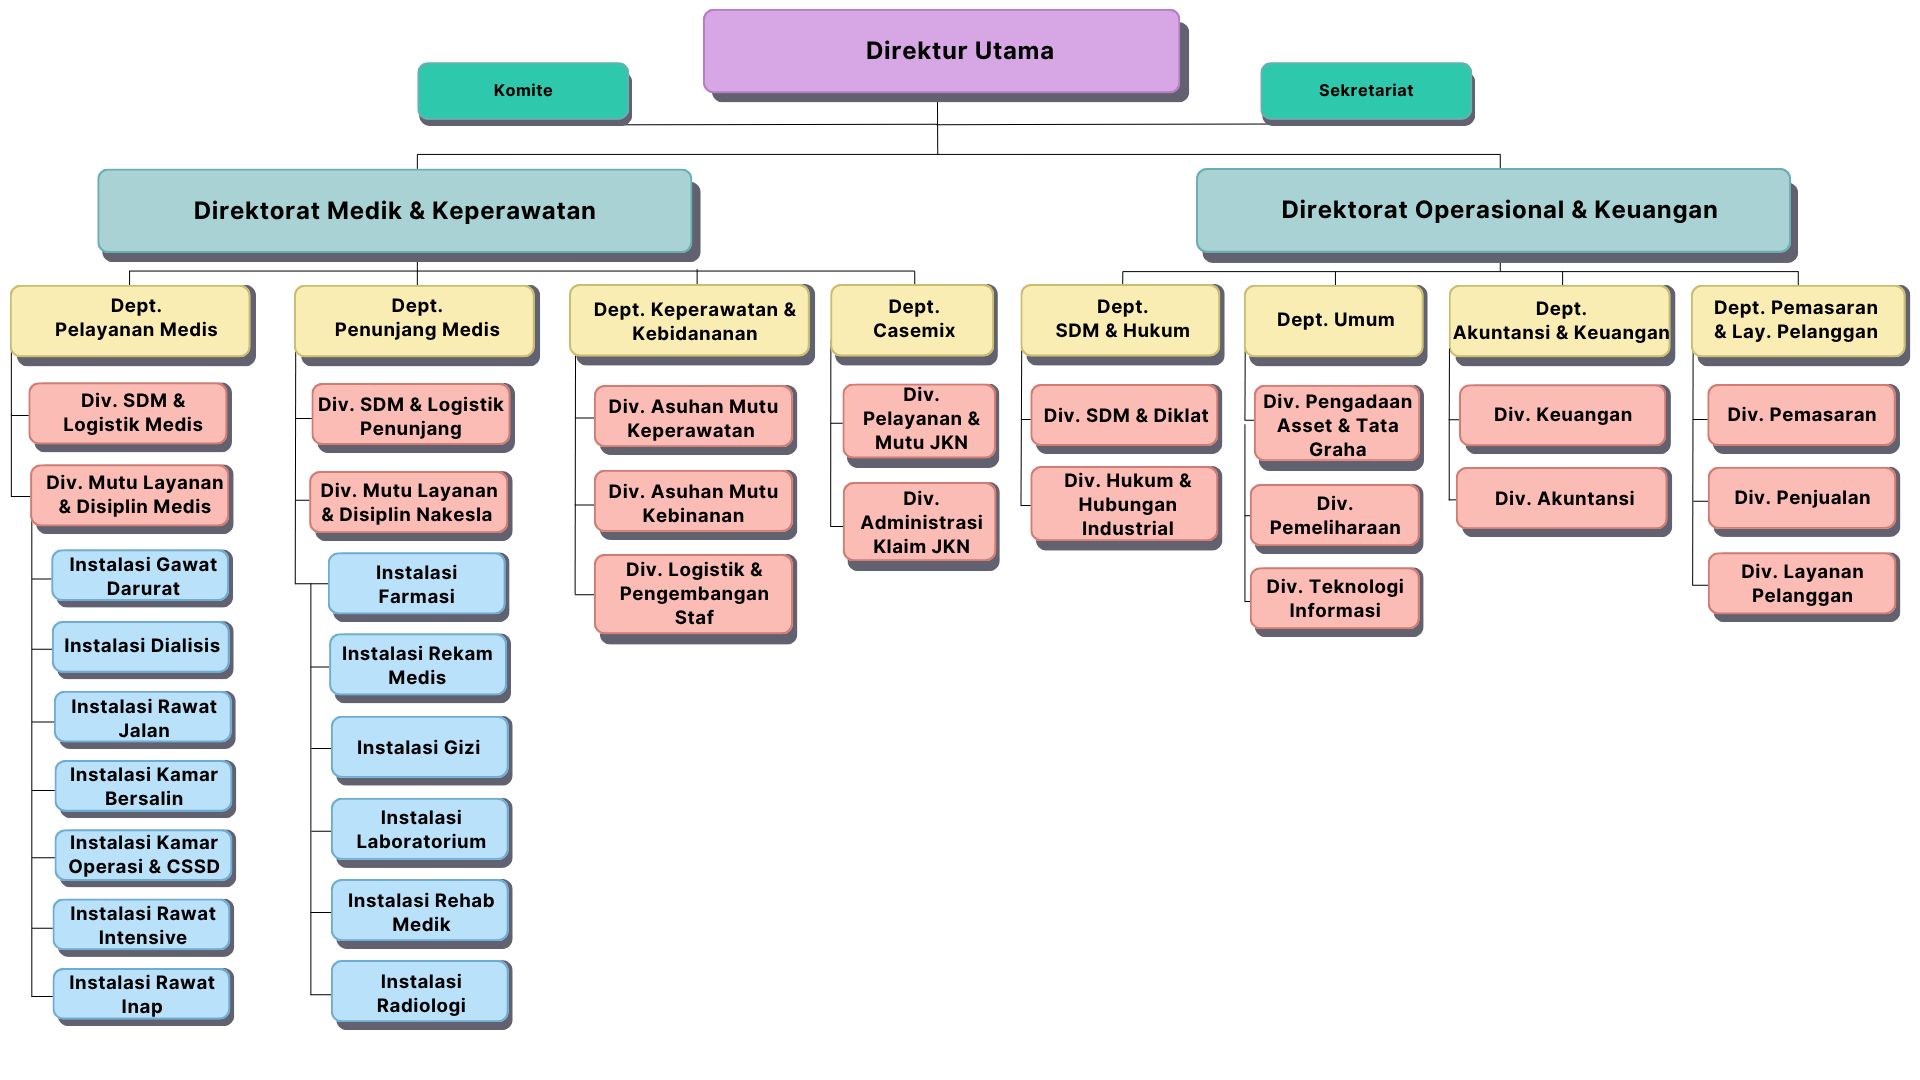
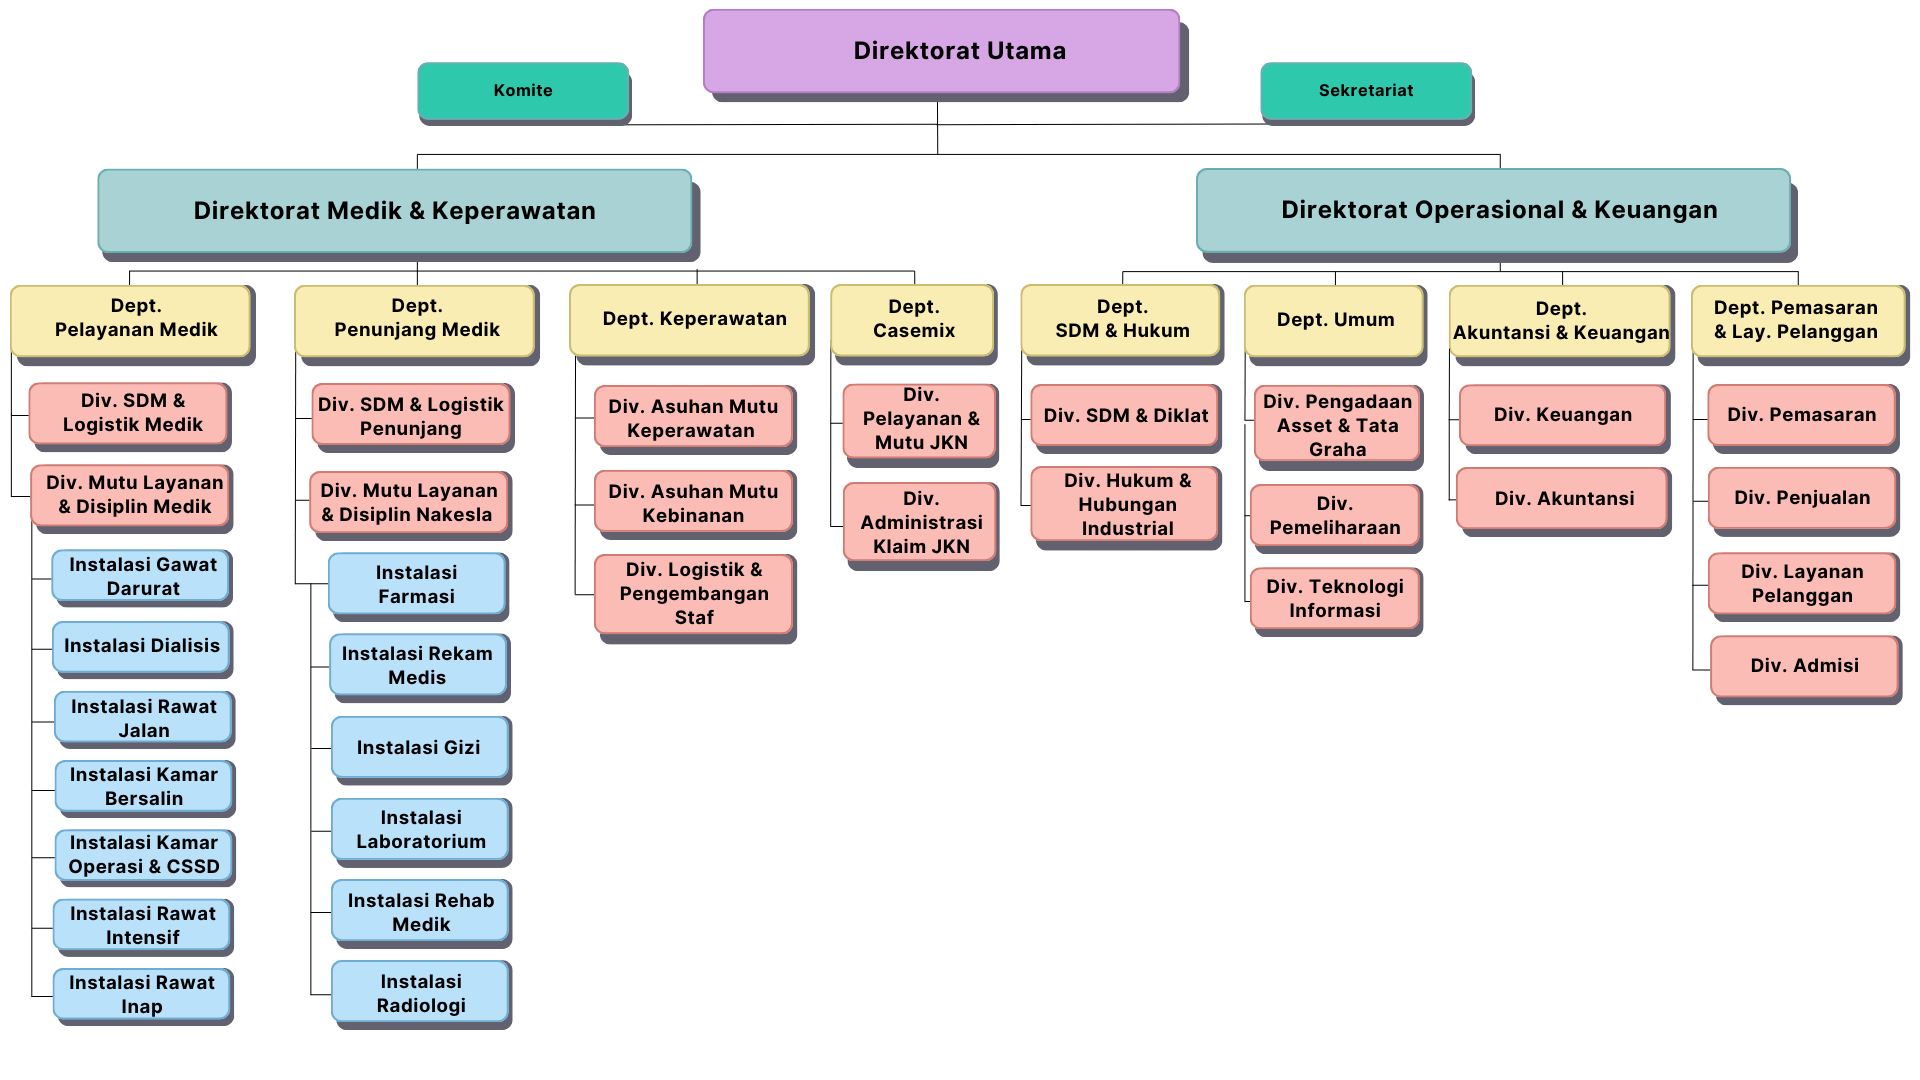
tambah fitur add indikator mutu

diff --git a/resources/views/pages/komite-mutu/indicator-values/bulk-edit.blade.php b/resources/views/pages/komite-mutu/indicator-values/bulk-edit.blade.php
@@ -2,12 +2,22 @@
 
 @section('title', 'SIGERCEP - Input Capaian Bulanan')
 
+@push('styles')
+    <style>
+        @media (min-width: 1280px) {
+            .modal-overlay {
+                left: 17rem !important;
+            }
+        }
+    </style>
+@endpush
+
 @section('content')
     <div class="w-full px-6 py-6 mx-auto">
         {{-- Header Section --}}
         <div class="flex flex-col md:flex-row justify-between items-start md:items-center mb-6 gap-4">
             <div>
-                <h3 class="font-bold text-2xl text-slate-800 dark:text-white">Input Capaian Bulanan</h3>
+                <h3 class="font-bold text-2xl text-gray-900 dark:text-white">Input Capaian Bulanan</h3>
             </div>
 
             <div>
@@ -42,7 +52,8 @@
                 class="flex flex-col md:flex-row md:items-center justify-between gap-4">
                 <div class="flex items-center gap-2">
                     <i class="fas fa-filter text-slate-400"></i>
-                    <h6 class="text-sm font-bold text-slate-800 dark:text-white uppercase m-0 ml-2">Pilih Periode & Kategori</h6>
+                    <h6 class="text-sm font-bold text-slate-800 dark:text-white uppercase m-0 ml-2">Pilih Periode & Kategori
+                    </h6>
                 </div>
                 <div class="flex flex-wrap md:flex-nowrap items-center gap-4 flex-1 md:justify-end">
                     {{-- Jenis Select --}}
@@ -93,6 +104,11 @@
                 <span class="text-sm font-bold text-slate-800 dark:text-white uppercase">
                     Form Input: {{ $jenis }} - {{ $bulanNama[$bulan] }} {{ $tahun }}
                 </span>
+                <button type="button" onclick="openAddModal()"
+                    class="inline-flex items-center justify-center px-4 py-2 text-xs font-bold uppercase rounded-lg shadow-md hover:shadow-lg active:opacity-85 transition-all text-white"
+                    style="background-color: #7664E4 !important; color: white !important;">
+                    <i class="fas fa-plus mr-2"></i> Tambah Indikator
+                </button>
             </div>
 
             <form method="POST" action="{{ route('indicator-values.bulk-update') }}" class="p-6">
@@ -233,9 +249,131 @@
     </div>
 @endsection
 
+{{-- Modal Tambah Indikator --}}
+@push('modals')
+    <div id="addIndicatorModal"
+        class="modal-overlay hidden items-center justify-center bg-slate-900/50 backdrop-blur-[2px]"
+        style="position: fixed; top: 0; left: 0; right: 0; bottom: 0; z-index: 9999;">
+        <div class="relative w-full max-w-2xl mx-auto px-4">
+            <div
+                class="relative bg-white dark:bg-slate-850 rounded-2xl shadow-2xl border border-gray-200 dark:border-slate-700 overflow-hidden">
+
+                {{-- Header --}}
+                <div class="flex items-center justify-between px-6 py-4 border-b border-gray-200 dark:border-slate-700"
+                    style="background: linear-gradient(135deg, #7664E4 0%, #5a4fcf 100%);">
+                    <div class="flex items-center gap-3">
+                        <div class="w-8 h-8 rounded-lg bg-white/20 flex items-center justify-center">
+                            <i class="fas fa-plus text-white text-sm"></i>
+                        </div>
+                        <h3 class="text-base font-bold text-white tracking-wide">
+                            Tambah Indikator Baru
+                        </h3>
+                    </div>
+                    <button type="button"
+                        class="text-white/80 hover:text-white hover:bg-white/20 rounded-lg w-8 h-8 inline-flex justify-center items-center transition-all"
+                        onclick="closeAddModal()">
+                        <i class="fas fa-times"></i>
+                    </button>
+                </div>
+
+                <form action="{{ route('indicators.store') }}" method="POST" class="p-6">
+                    @csrf
+                    <input type="hidden" name="tahun" value="{{ $tahun }}">
+                    <input type="hidden" name="jenis_indikator" value="{{ $jenis }}">
+
+                    <div class="grid gap-4 mb-4 grid-cols-2">
+                        <div class="col-span-2 sm:col-span-1">
+                            <label for="no_urut"
+                                class="block mb-1.5 text-xs font-bold text-slate-700 dark:text-slate-300 uppercase tracking-wide">No
+                                Urut</label>
+                            <input type="text" name="no_urut" id="no_urut"
+                                class="bg-white mb-2 border border-gray-300 text-gray-900 text-sm rounded-lg focus:ring-violet-500 focus:border-violet-500 block w-full p-2.5 dark:bg-slate-800 dark:border-slate-600 dark:text-white"
+                                placeholder="e.g. 1, 2a, dst">
+                        </div>
+                        <div class="col-span-2 sm:col-span-1">
+                            <label for="target_value"
+                                class="block mb-1.5 text-xs font-bold text-slate-700 dark:text-slate-300 uppercase tracking-wide">Target
+                                (%)</label>
+                            <input type="number" step="any" name="target_value" id="target_value"
+                                class="bg-white mb-2 border border-gray-300 text-gray-900 text-sm rounded-lg focus:ring-violet-500 focus:border-violet-500 block w-full p-2.5 dark:bg-slate-800 dark:border-slate-600 dark:text-white"
+                                placeholder="e.g. 80">
+                        </div>
+                        <div class="col-span-2">
+                            <label for="nama_indikator"
+                                class="block mb-1.5 text-xs font-bold text-slate-700 dark:text-slate-300 uppercase tracking-wide">Nama
+                                Indikator <span class="text-red-500">*</span></label>
+                            <input type="text" name="nama_indikator" id="nama_indikator"
+                                class="bg-white mb-2 border border-gray-300 text-gray-900 text-sm rounded-lg focus:ring-violet-500 focus:border-violet-500 block w-full p-2.5 dark:bg-slate-800 dark:border-slate-600 dark:text-white"
+                                required>
+                        </div>
+                        <div class="col-span-2 sm:col-span-1">
+                            <label for="pj"
+                                class="block mb-1.5 text-xs font-bold text-slate-700 dark:text-slate-300 uppercase tracking-wide">Penanggung
+                                Jawab (PJ)</label>
+                            <input type="text" name="pj" id="pj"
+                                class="bg-white mb-2 border border-gray-300 text-gray-900 text-sm rounded-lg focus:ring-violet-500 focus:border-violet-500 block w-full p-2.5 dark:bg-slate-800 dark:border-slate-600 dark:text-white">
+                        </div>
+                        <div class="col-span-2 sm:col-span-1">
+                            <label for="unit_terkait"
+                                class="block mb-1.5 text-xs font-bold text-slate-700 dark:text-slate-300 uppercase tracking-wide">Unit
+                                Terkait</label>
+                            <input type="text" name="unit_terkait" id="unit_terkait"
+                                class="bg-white mb-2 border border-gray-300 text-gray-900 text-sm rounded-lg focus:ring-violet-500 focus:border-violet-500 block w-full p-2.5 dark:bg-slate-800 dark:border-slate-600 dark:text-white">
+                        </div>
+                    </div>
+
+                    <div class="flex justify-end gap-3 pt-4 border-t border-gray-100 dark:border-slate-700">
+                        <button type="button"
+                            class="px-5 py-2.5 text-sm font-medium text-slate-600 bg-gray-100 hover:bg-gray-200 rounded-lg transition-all"
+                            onclick="closeAddModal()">
+                            Batal
+                        </button>
+                        <button type="submit"
+                            class="px-5 py-2.5 text-sm font-bold text-white rounded-lg shadow-md hover:shadow-lg transition-all inline-flex items-center gap-2"
+                            style="background: linear-gradient(135deg, #7664E4 0%, #5a4fcf 100%);">
+                            <i class="fas fa-save mr-1"></i> Simpan
+                        </button>
+                    </div>
+                </form>
+            </div>
+        </div>
+    </div>
+@endpush
+
 @push('scripts')
     <script>
+        function openAddModal() {
+            const modal = document.getElementById('addIndicatorModal');
+            if (!modal) return;
+            modal.classList.remove('hidden');
+            modal.classList.add('flex');
+            // Prevent body scroll when modal is open
+            document.body.style.overflow = 'hidden';
+        }
+
+        function closeAddModal() {
+            const modal = document.getElementById('addIndicatorModal');
+            if (!modal) return;
+            modal.classList.add('hidden');
+            modal.classList.remove('flex');
+            // Restore body scroll
+            document.body.style.overflow = '';
+        }
+
         document.addEventListener('DOMContentLoaded', function() {
+            // Pindahkan modal ke body agar tidak terjebak di dalam <main>
+            // yang punya transition-all (membuat containing block baru untuk fixed positioning)
+            const modal = document.getElementById('addIndicatorModal');
+            if (modal) {
+                document.body.appendChild(modal);
+
+                // Close modal when clicking outside the dialog box
+                modal.addEventListener('click', function(e) {
+                    if (e.target === this) closeAddModal();
+                });
+            }
+
+            // Auto-calculate percentage
             const rows = document.querySelectorAll('.row-indicator');
 
             rows.forEach(row => {
@@ -259,6 +397,11 @@
                     denInput.addEventListener('input', calculatePercentage);
                 }
             });
+        });
+
+        // Close modal on Escape key
+        document.addEventListener('keydown', function(e) {
+            if (e.key === 'Escape') closeAddModal();
         });
     </script>
 @endpush

diff --git a/resources/views/pages/hardware/create.blade.php b/resources/views/pages/hardware/create.blade.php
@@ -16,6 +16,10 @@
                             @csrf
 
                             <div class="grid grid-cols-1 md:grid-cols-2 gap-4">
+
+                                {{-- IP PC --}}
+                                <x-form.input name="ip" label="IP Komputer" :value="old('ip', $hardware->ip ?? '')" required />
+
                                 {{-- Nama --}}
                                 <x-form.input name="nama" label="Nama" :value="old('nama', $hardware->nama ?? '')" required />
 
@@ -44,25 +48,14 @@
                                             @php
                                                 $checklistItems = [
                                                     'Wallpaper backround RS',
-                                                    'Pastikan login sistem operasi ada dua (admin dan limit)',
-                                                    'Pastikan password admin dan limit terkontrol',
+                                                    'Password admin dan user terkontrol',
                                                     'Screen saver jalan',
-                                                    'Aplikasi remote VNC berjalan',
                                                     'Aplikasi remote VNC berjalan',
                                                     'Bersihkan komputer dari software yang tidak diijinkan',
                                                     'Cek kapasitas hardisk sistem operasi C',
-                                                    'Jalankan SIMRS HAMORI',
-                                                    'IP address sesuai',
-                                                    'Ping Local dan Internet berjalan/reply',
-                                                    'Printer bisa digunakan',
-                                                    'Catridge terisi tinta',
-                                                    'Cek nyalanya Monitor',
-                                                    'Cek fungsi UPS',
-                                                    'Cek fungsi Mouse',
-                                                    'Cek fungsi Keyboard',
-                                                    'Bersihkan Casing bagian dalam dari debu',
-                                                    'Rapihkan pengkabelan',
-                                                    'Rapikan penempatan',
+                                                    'Koneksi Internet',
+                                                    'Printer dan hardware pendukung berfungsi',
+                                                    'Cleaning CPU',
                                                     'Akses Flashdisk terkontrol',
                                                 ];
                                             @endphp
@@ -93,26 +86,6 @@
                                             </tr>
                                         </tfoot>
                                     </table>
-
-                                    {{-- Tanda Tangan --}}
-                                    <div class="mt-6">
-                                        <label class="block text-sm font-semibold text-gray-700 mb-2">Tanda Tangan:</label>
-                                        <div class="border rounded shadow-sm bg-white p-4">
-                                            <canvas id="signature-pad" class="w-1/2 h-52 rounded"
-                                                style="border: 2px solid #9e9e9e;"></canvas>
-                                            <input type="hidden" name="tanda_tangan" id="tanda_tangan">
-                                            <div class="mt-4 flex gap-2">
-                                                <button type="button" id="undo"
-                                                    class="relative p-4 mb-4 mr-1 text-white border border-solid rounded-lg bg-gradient-to-tl from-zinc-800 to-zinc-700 border-slate-100 px-4 py-2 flex items-center gap-2">
-                                                    <i class="fa fa-undo mr-1"></i> Undo
-                                                </button>
-                                                <button type="button" id="clear"
-                                                    class="relative p-4 mb-4 text-white border border-red-300 border-solid rounded-lg bg-gradient-to-tl from-red-600 to-orange-600 px-4 py-2 flex items-center gap-2">
-                                                    <i class="fa fa-trash mr-1"></i> Clear
-                                                </button>
-                                            </div>
-                                        </div>
-                                    </div>
 
                                 </div>
                             </div>

diff --git a/app/Http/Controllers/IndicatorController.php b/app/Http/Controllers/IndicatorController.php
@@ -39,4 +39,38 @@ class IndicatorController extends Controller
             'indicators', 'tahun', 'jenis', 'jenisOptions', 'tahunOptions'
         ));
     }
+
+    /**
+     * Simpan indikator baru.
+     */
+    public function store(Request $request)
+    {
+        $request->validate([
+            'no_urut' => 'nullable|string|max:50',
+            'pj' => 'nullable|string|max:255',
+            'nama_indikator' => 'required|string|max:255',
+            'jenis_indikator' => 'required|string|max:50',
+            'unit_terkait' => 'nullable|string|max:255',
+            'target_value' => 'nullable|numeric',
+            'tahun' => 'required|integer',
+        ]);
+
+        $indicator = Indicator::create([
+            'no_urut' => $request->no_urut,
+            'pj' => $request->pj,
+            'nama_indikator' => $request->nama_indikator,
+            'jenis_indikator' => $request->jenis_indikator,
+            'unit_terkait' => $request->unit_terkait,
+        ]);
+
+        if ($request->filled('target_value')) {
+            IndicatorTarget::create([
+                'indicator_id' => $indicator->id,
+                'tahun' => $request->tahun,
+                'target_value' => $request->target_value,
+            ]);
+        }
+
+        return back()->with('success', 'Indikator berhasil ditambahkan.');
+    }
 }

diff --git a/routes/web.php b/routes/web.php
@@ -282,8 +282,13 @@ Route::middleware('auth')->group(function () {
         ->names('hardware');
 
     // Indikator Mutu
-    Route::middleware(['auth', 'permission:mutu,read'])->group(function () {
-        Route::get('indicators', [IndicatorController::class, 'index'])->name('indicators.index');
+    Route::middleware(['auth'])->group(function () {
+        Route::get('indicators', [IndicatorController::class, 'index'])
+            ->middleware('permission:mutu,read')
+            ->name('indicators.index');
+        Route::post('indicators', [IndicatorController::class, 'store'])
+            ->middleware('permission:mutu,create')
+            ->name('indicators.store');
     });
 
     Route::middleware(['auth'])->prefix('indicator-values')->name('indicator-values.')->group(function () {

diff --git a/database/seeders/IndicatorExcelSeeder.php b/database/seeders/IndicatorExcelSeeder.php
@@ -59,7 +59,7 @@ class IndicatorExcelSeeder extends Seeder
         Indicator::truncate();
         DB::statement('SET FOREIGN_KEY_CHECKS=1;');
 
-        $filePath = 'C:/Users/Samuel/Downloads/MONITORING CAPAIAN INDIKATOR MUTU RS HAMORI.xlsx';
+        $filePath = 'C:\Users\Admin\Herd\sigercep\public\assets\file\MONITORING CAPAIAN INDIKATOR MUTU RS HAMORI.xlsx';
 
         if (!file_exists($filePath)) {
             $this->command->error("File tidak ditemukan: $filePath");

diff --git a/resources/views/layouts/app.blade.php b/resources/views/layouts/app.blade.php
@@ -28,6 +28,7 @@
         {{-- @include('layouts.partials.fixed') --}}
     </main>
 
+@stack('modals')
 </body>
 
 {{-- Scripts --}}